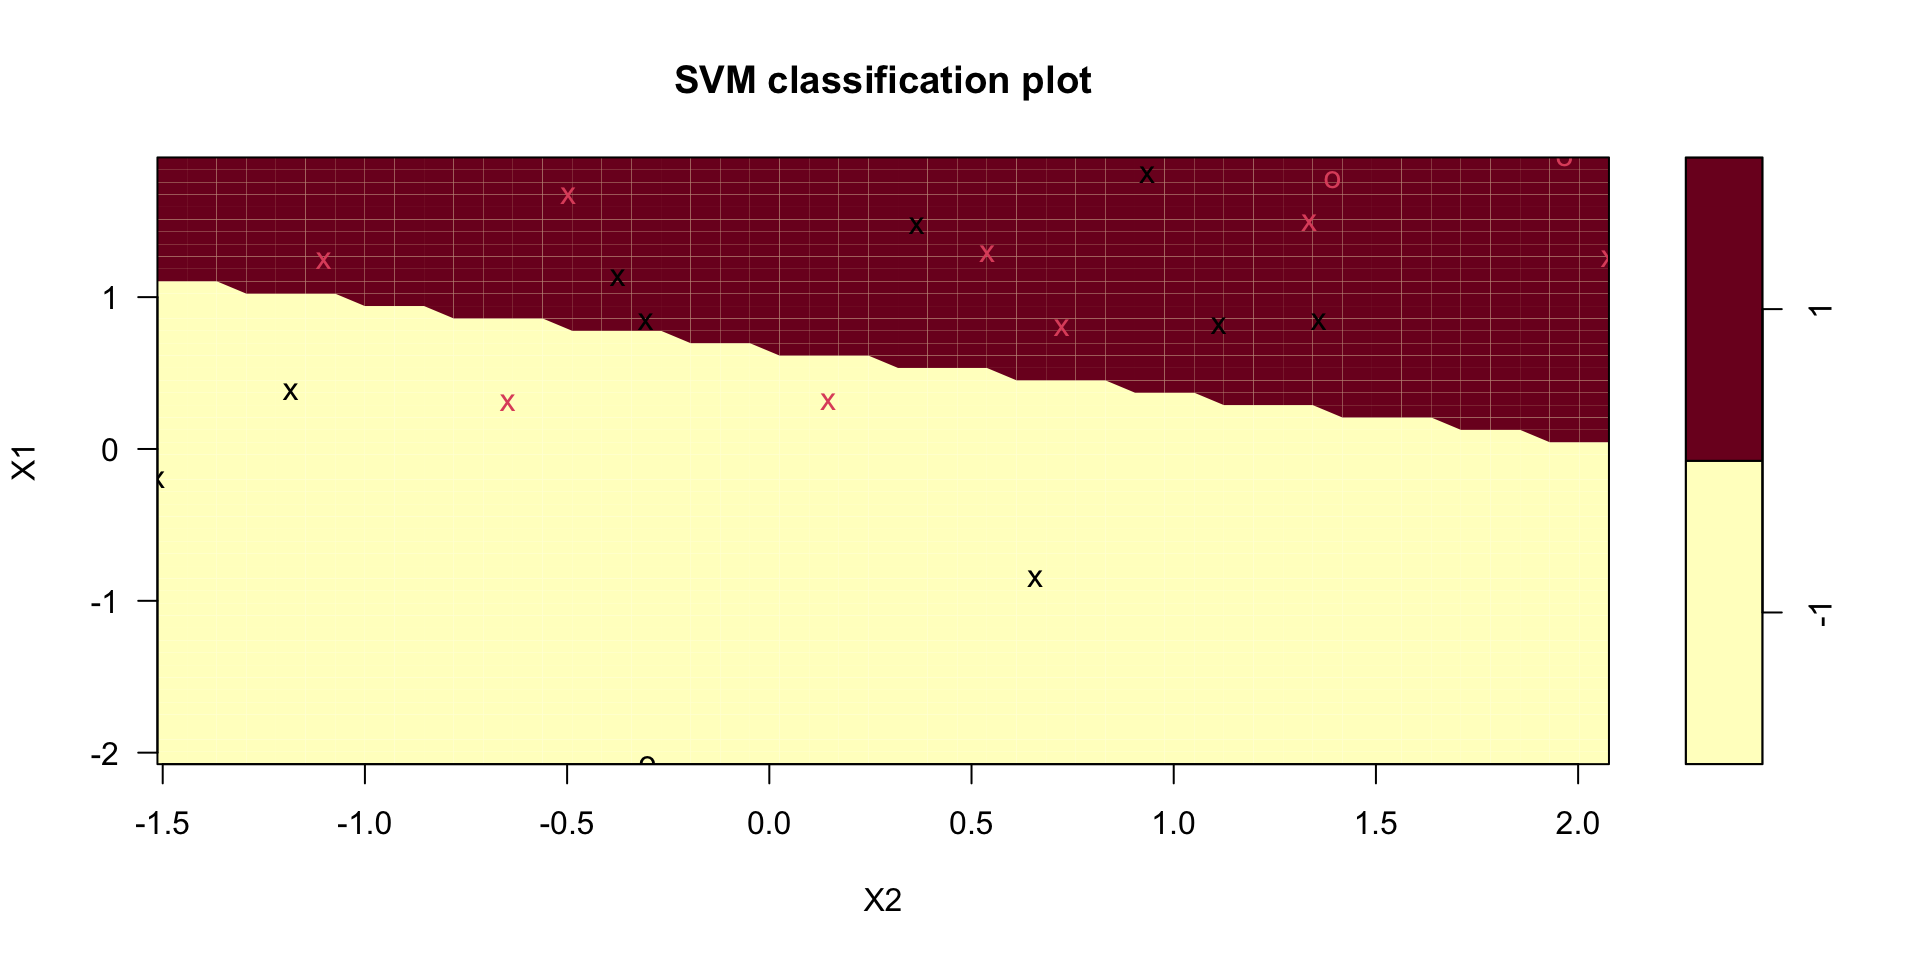
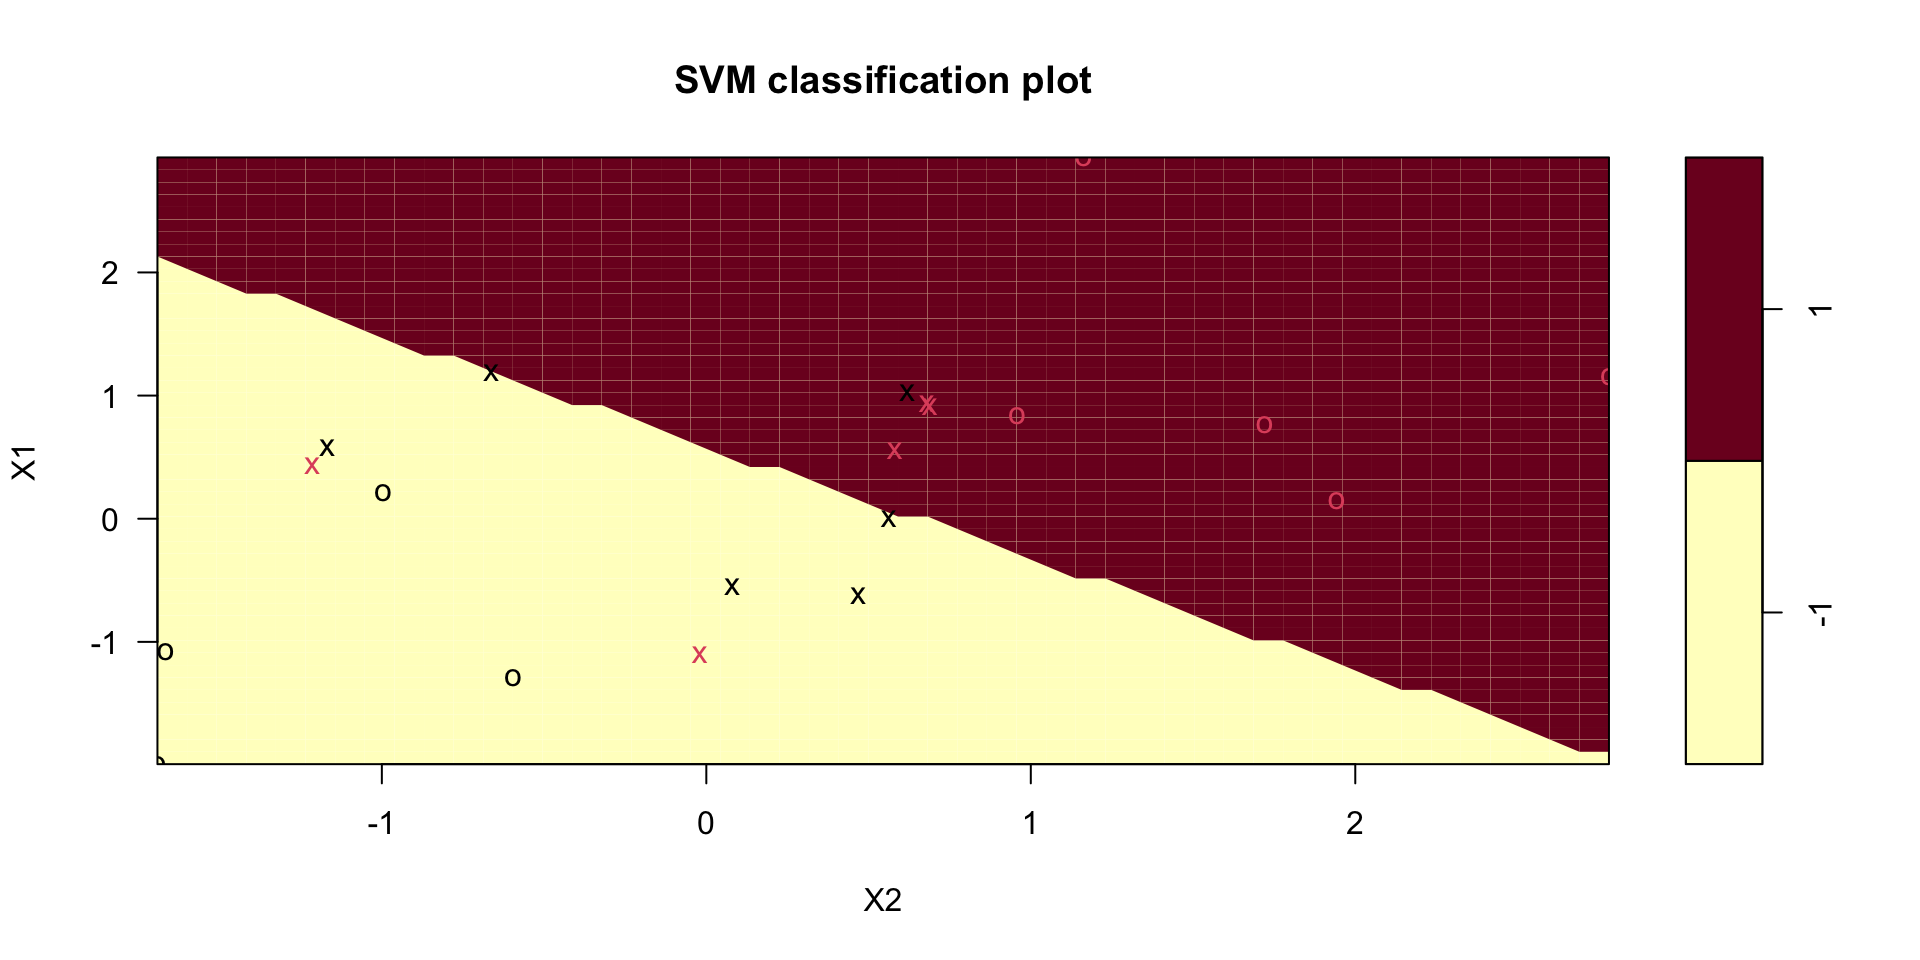
14

diff --git a/slides.html b/slides.html
@@ -504,23 +504,23 @@ Parameters:
  SVM-Kernel:  linear 
        cost:  10 
 
-Number of Support Vectors:  17</code></pre>
+Number of Support Vectors:  11</code></pre>
 </div>
 <div class="cell-output-display">
 <p><img data-src="slides_files/figure-revealjs/unnamed-chunk-1-2.png" width="960"></p>
 </div>
 <div class="cell-output cell-output-stdout">
 <pre><code>          X1        X2
-1  -2.075718 -1.513035
-2  -2.021722 -1.513035
-3  -1.967727 -1.513035
-4  -1.913731 -1.513035
-5  -1.859735 -1.513035
-6  -1.805739 -1.513035
-7  -1.751744 -1.513035
-8  -1.697748 -1.513035
-9  -1.643752 -1.513035
-10 -1.589756 -1.513035</code></pre>
+1  -1.993042 -1.691594
+2  -1.926463 -1.691594
+3  -1.859884 -1.691594
+4  -1.793305 -1.691594
+5  -1.726726 -1.691594
+6  -1.660147 -1.691594
+7  -1.593568 -1.691594
+8  -1.526989 -1.691594
+9  -1.460410 -1.691594
+10 -1.393831 -1.691594</code></pre>
 </div>
 <div class="cell-output-display">
 <p><img data-src="slides_files/figure-revealjs/unnamed-chunk-1-3.png" width="960"></p>
